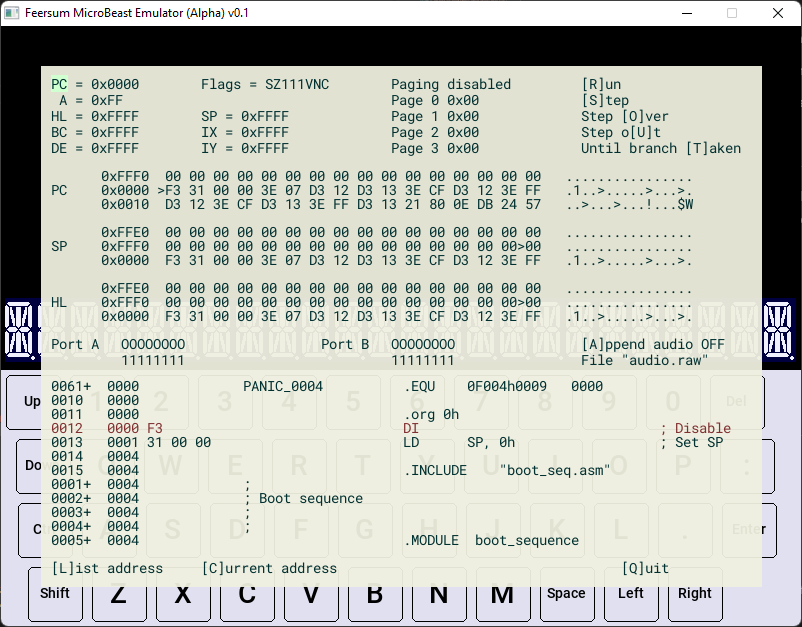
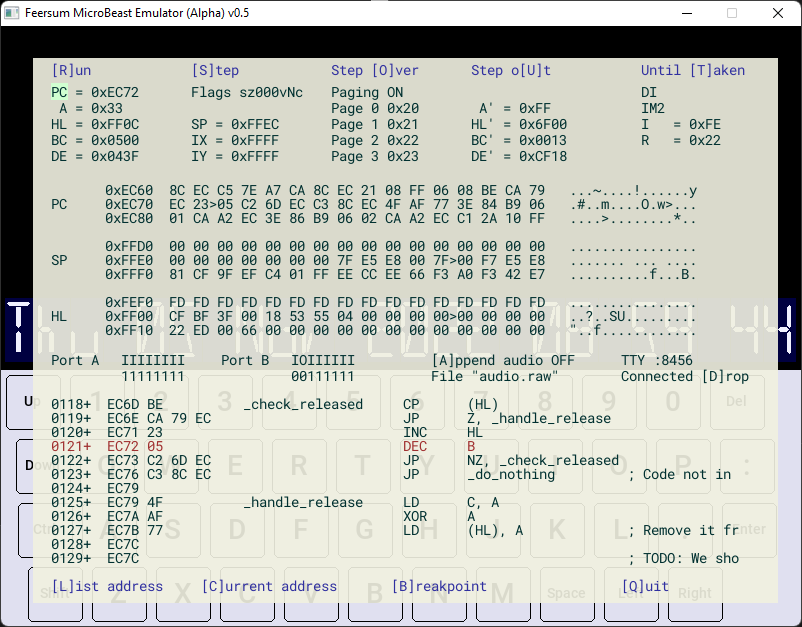
Update documentation

diff --git a/README.md b/README.md
@@ -26,15 +26,15 @@ Linux users should copy the exectutable to a directory along with the files in t
 
 ## Run with a simple test ROM
 
+Windows users can run `beast.bat` in the `release/win64` directory.
+
+Linux users can run BeastEm with the executable name ``beastem`` on the command line.
+
 If no parameters are supplied, BeastEm will start the emulator up with an (incomplete) monitor ROM that exercises some of the features of MicroBeast. This is equivalent to running with the command line:
 
 ```
 beastem -f monitor.rom -l 0 firmware.lst -l 23 bios.lst
 ```
-
-Windows users can run `beast.bat` in the `release/win64` directory.
-
-Linux users can run BeastEm with the executable name ``beastem`` on the command line.
 
 ## Command line options
 
@@ -55,7 +55,9 @@ The following command line options may be used:
 
 BeastEm will synchronise debug with listing files in the TASM format (each line consisting of a line number, one or more spaces and then the assembly address in hex). Other formats may be supported in future.
 
-A listing file is pinned to the memory page it is loaded into, as well as the physical address in the listing itself. This allows code paged in to memory to be correctly identified.
+A listing file is pinned to the memory page it is loaded into, as well as the physical address in the listing itself. This allows code paged in to memory to be correctly identified. 
+
+Note that no checks are made that the memory contents match the provided listing, so the assembly shown may not be accurate.
 
 ## Controlling BeastEm
 
@@ -70,11 +72,32 @@ In the debug view, most commands take a single keypress. The currently implement
 | `R` | Run the emulator until `ESCAPE` pressed or breakpoint is reached                             |
 | `S` | Single step - execute one instruction                                                        |
 | `O` | Run until the following instruction is reached (eg. **O**ver a `CALL` or `DJNZ` instruction) |
-| `U` | Run until the current subroutine is **R**eturned from.                                       |
+| `U` | Run until the current subroutine is returned from.                                           |
 | `T` | Run until the current conditional branch is **T**aken                                        |
+| `B` | Toggle breakpoint, edit value when breakpoint enabled                                        |
+| `D` | When a terminal is connected over a network port, **D**isconnect it and await a new connection |
 | `Q` | Quit                                                                                         |
-| `A` | Toggles appending audio output to the chosen audio file                                      |
-| `PG-Up`, `PG-Down` | Select debug values for editing (editing not implemented yet)                 |
+| `A` | Toggles appending audio output to the chosen audio file                                      | 
+| `PG-Up`, `PG-Down` | Select debug values for editing                                               |
+| `Left`, `Right`    | When a memory view is selected, choose the register pair or address to view   |
+
+When a value is selected, hitting `Enter` will allow a new value to be set, or toggle a binary `On|Off` value.
+
+Besides showing the address pointed to by register pairs, the memory views also allow memory to be directly 
+inspected. The `Z80` option views the CPU's memory map (0-64K), whereas the `PAGE` option allows any page
+in the 1Mb paged memory (512K ROM, 512K RAM) to be examined.
+
+## Serial over Network
+
+A terminal can be connected to the emulated MicroBeast UART over a network socket. Data sent to and from the terminal
+will be handled as though sent to the UART at whatever Baud rate it is configured for.
+
+To connect a terminal, ensure the debug screen is visible and check the port number displayed next to the `TTY` menu
+option (default 8456). Open your preferred terminal program and connect to `localhost:8456`. The debug window will
+indicate when a connection is made, and the `D` key will disconnect and await a new connection.
+
+The UART simulates hardware handshake (no data is discarded or overrun), and the 16C550 RX/TX FIFO, but does not
+currently implement interrupts, so software must poll the UART directly for its state.
 
 
 # Building
@@ -87,10 +110,10 @@ Windows users can install g++ with MySys64, following [this guide](https://code.
 
 ## Linux
 
-Linux users will need to install the SDL2 development libraries, specifically `libsdl2-dev`, `libsdl2-gfx-dev` and `libsdl2-ttf-dev`. Build the executable with:
+Linux users will need to install the SDL2 development libraries, specifically `libsdl2-dev`, `libsdl2-gfx-dev`, `libsdl2-net-dev` and `libsdl2-ttf-dev`. Build the executable with:
 
 ```
-g++ -w -O2 -o beastem beastem.cpp src/*.cpp -I/usr/include/SDL2 -D_REENTRANT -lSDL2 -lSDL2_ttf -lSDL2_gfx
+g++ -w -O2 -o beastem beastem.cpp src/*.cpp -I/usr/include/SDL2 -D_REENTRANT -lSDL2 -lSDL2_ttf -lSDL2_gfx -lSDL2_net
 ```
 
 (This assumes all SDL2 include files have been installed to `/usr/include/SDL2`).
@@ -105,17 +128,14 @@ BeastEm is one part of a much bigger project to build a unique new computer, so 
 
 Some features are not yet implemented:
 
-* Serial input
 * RTC Alarms, battery monitoring
 * PIO inputs
 * Flash ROM erase and write
 
 The Debugger is also on early release, currently missing:
 
-* Register editing
 * Memory editing
 * Read / write binary files during emulation
-* Set, clear breakpoints
 * Navigating through listings/disassembly.
 
 The included monitor ROM is also early code, demonstrating some simple concepts on MicroBeast. It is included only for test purposes.
